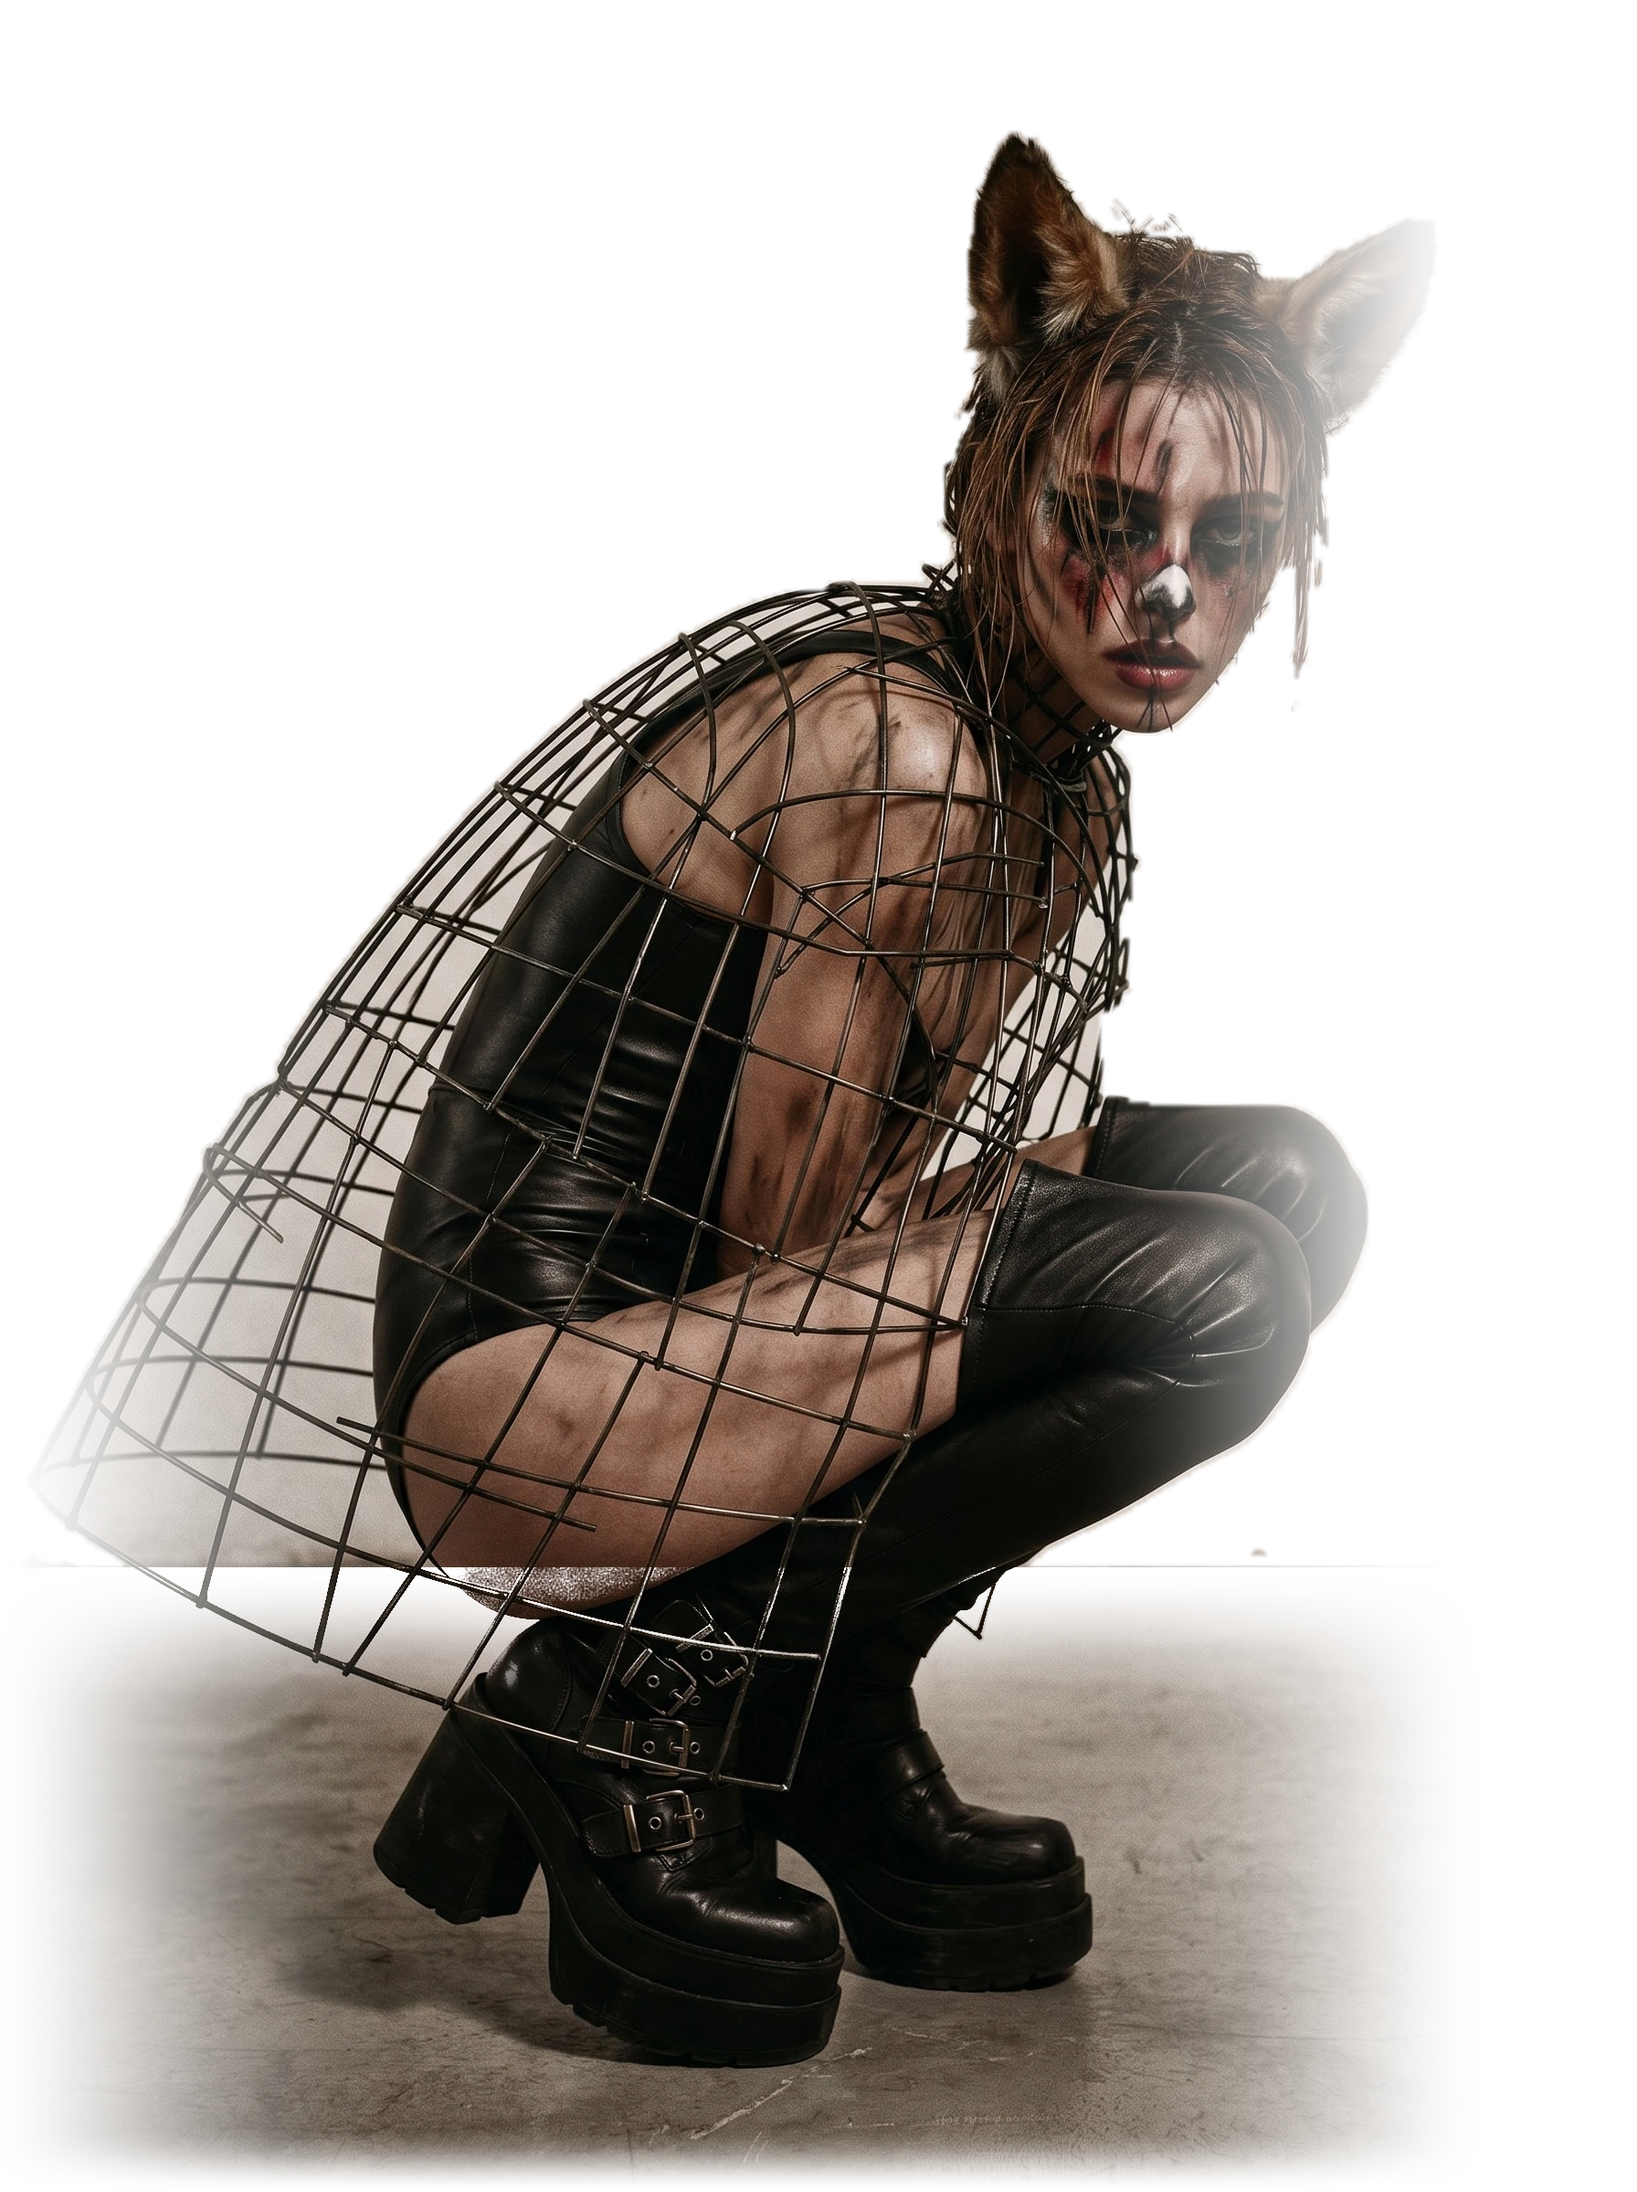
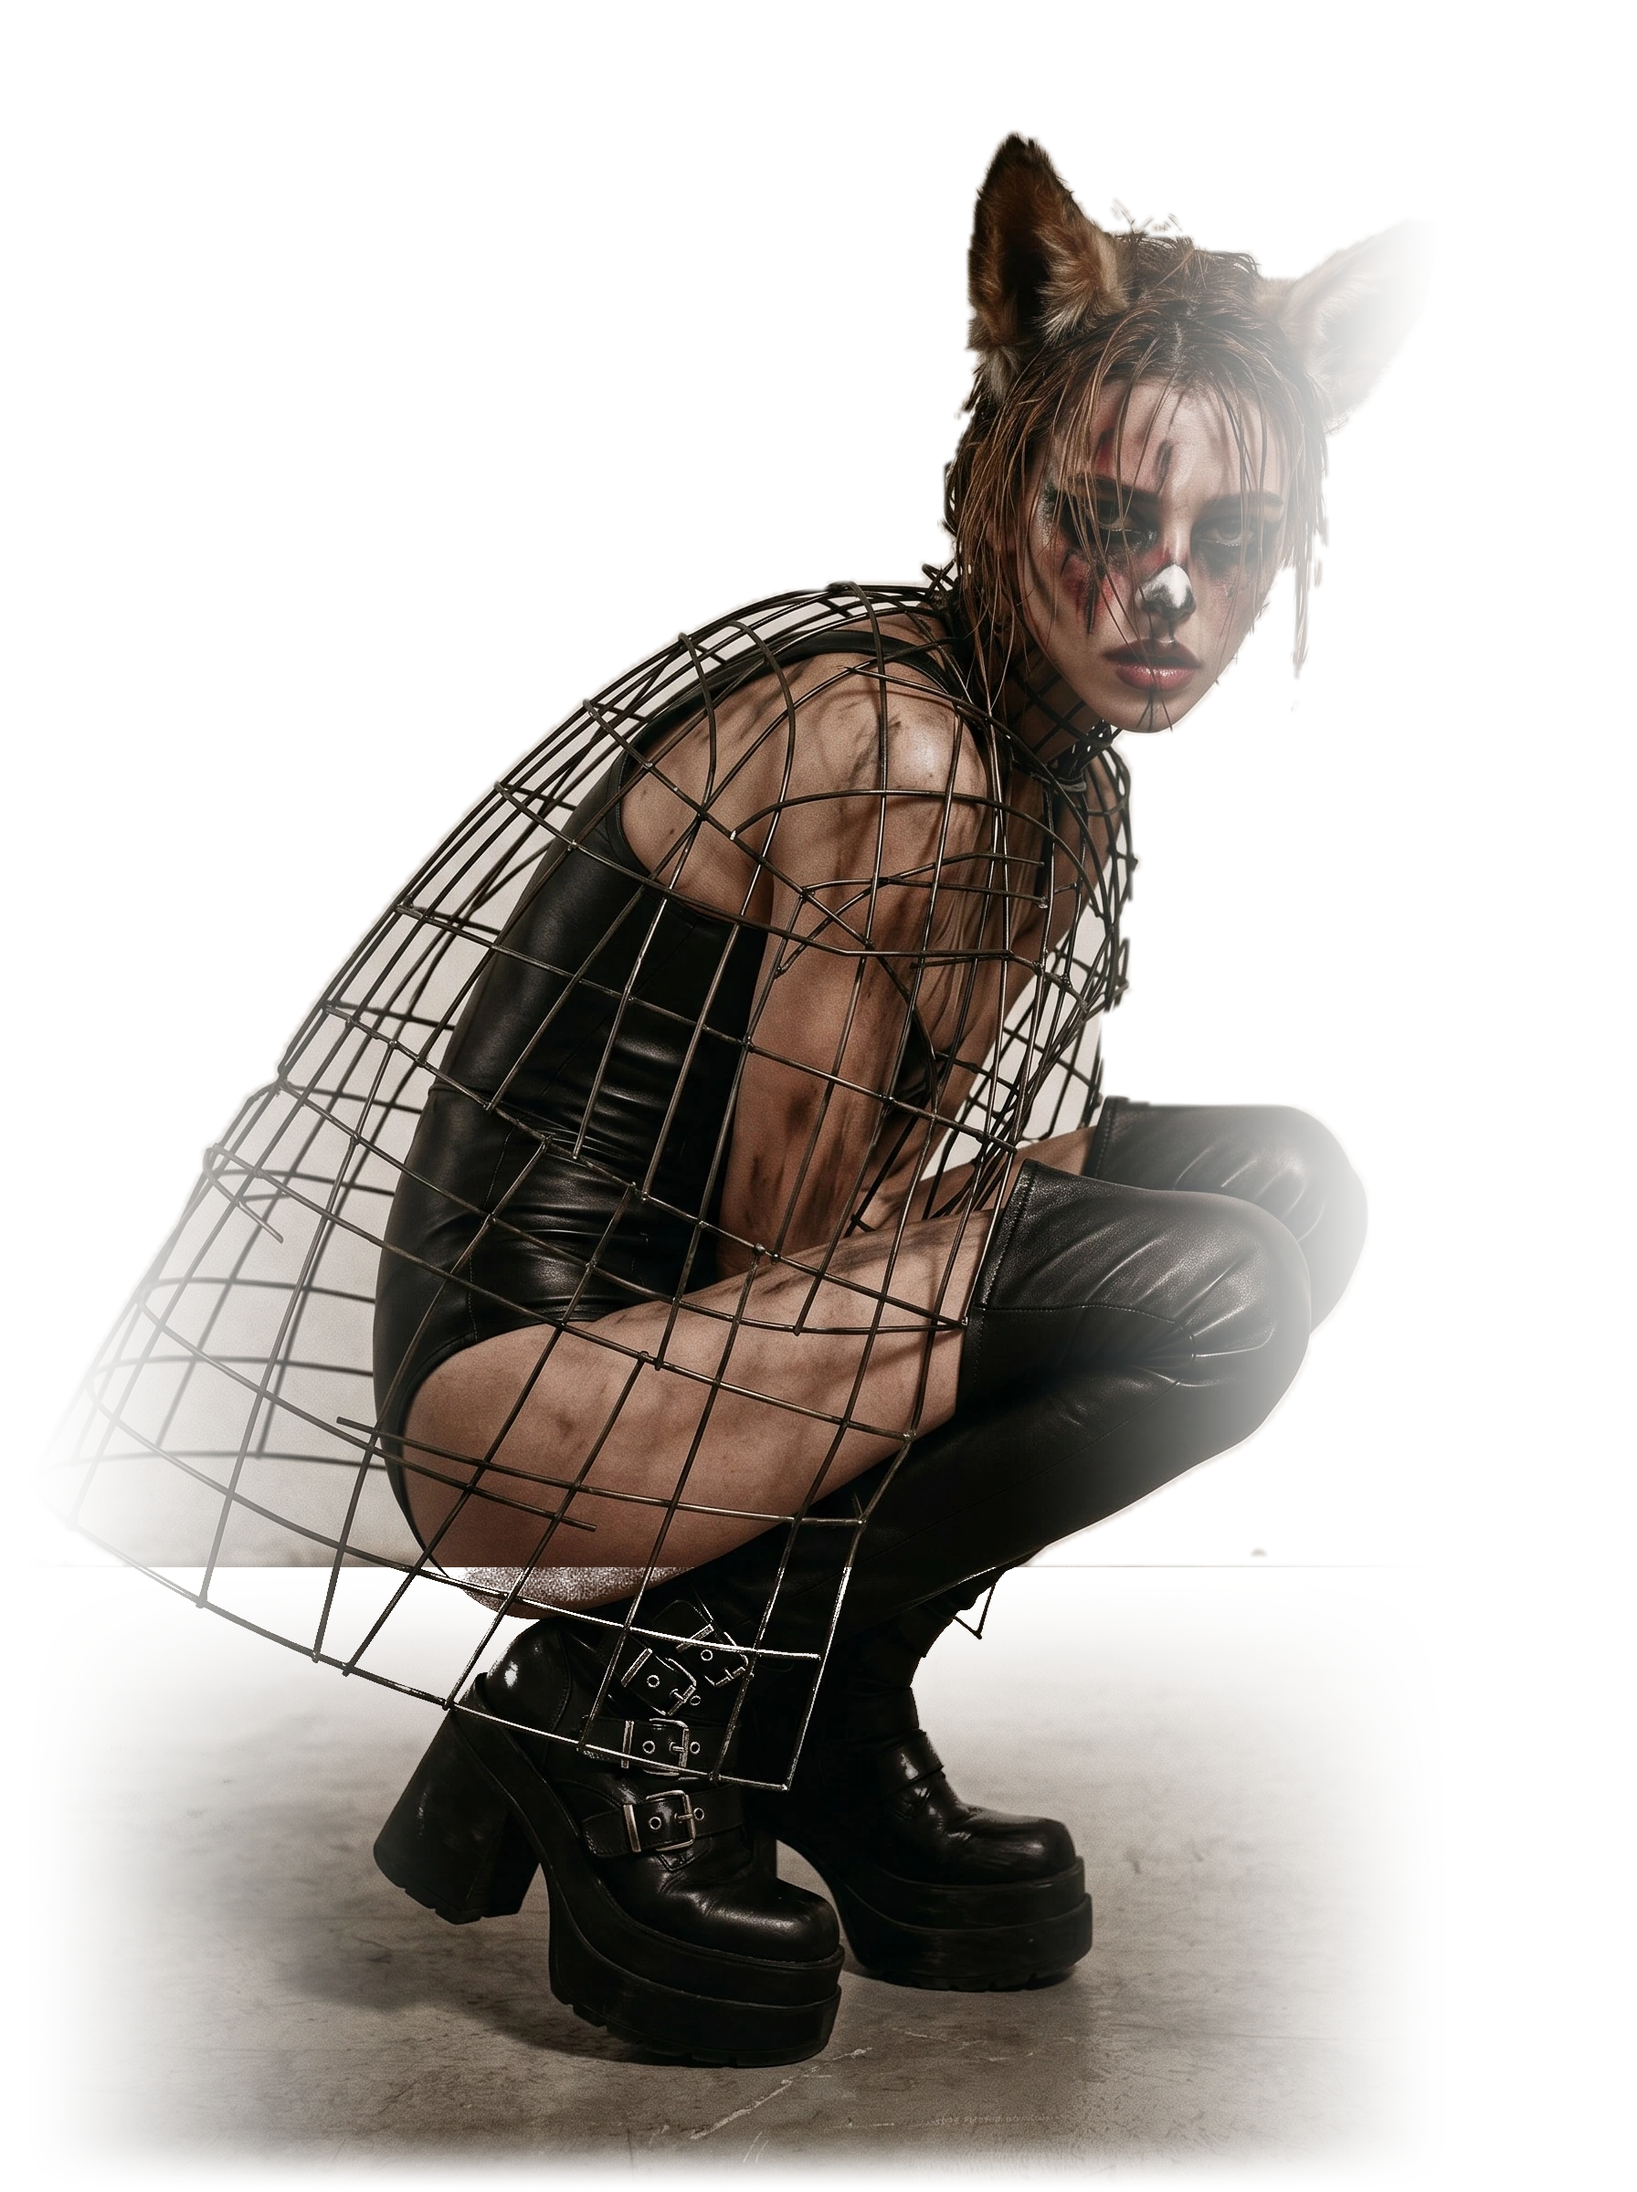
Name the responsible party, and correct what the briefing discloses
Privacy had the same gap the terms did: "we" throughout, with no party
attached to any of it. It now names one, in POPIA's own term — an
individual, not a registered company, consistent with the terms.

The briefing section was also inaccurate. It said a subscriber's address
is "shared with no one", but the subscribe form posts directly to
assets.mailerlite.com: MailerLite stores the list, and a subscriber's IP
reaches them at the moment they subscribe. That is the one form on the
site submitting off-domain — checked against the built output, which
carries exactly one form element and no others. A page whose stated
purpose is catching that gap in other people's writing cannot carry it.
The claim is now scoped to what is verifiable, and notes separately that
following a payment link to PayPal discloses an address to PayPal the way
visiting any site does.

Also widened the hero's fade bands. The seam was 0.075 of the height,
about 180px at full resolution, which survives on a desktop but compresses
to roughly 13px once the image is scaled into a phone viewport — tight
enough to read as an edge rather than a fade, which is what made the
shadow pool look like a pasted band there. At 0.16 it holds at both sizes.

Claude-Session: https://claude.ai/code/session_01JK2PB3QAa6TdnYw3VhGRKM

diff --git a/content/pages/privacy.md b/content/pages/privacy.md
@@ -4,11 +4,15 @@ summary: What this site collects, which is close to nothing, and how that sits w
 order: 5
 ---
 
-*Last updated: 31 August 2026*
+*Last updated: 10 September 2026*
 
 FERAL FEMME is a South African publication and processes personal information in line with the **Protection of Personal Information Act 4 of 2013 (POPIA)**. It has no premises: it is written from wherever the editor is, and the address below reaches her wherever that is.
 
 This site is built as static files. It has no database, no user accounts, and no server-side processing of visitor data.
+
+## Who is responsible
+
+FERAL FEMME is an independent publication run by one person. It is not a registered company, and it is not part of one. Under POPIA the **responsible party** is the individual who publishes it — "we", "us", and "our" on this page mean her — and she can be reached at [info@feral-femme.co](mailto:info@feral-femme.co).
 
 ## What we do not do
 
@@ -40,7 +44,9 @@ Our hosting provider records standard server logs — IP address, timestamp, req
 
 ## The briefing
 
-If you subscribe to The Research Briefing, we hold your email address for the sole purpose of sending it. It is used for nothing else, shared with no one, and deleted on unsubscribe. Every issue carries a one-click unsubscribe link.
+If you subscribe to The Research Briefing, we hold your email address for the sole purpose of sending it. It is used for nothing else, never sold, never disclosed to anyone else, and deleted on unsubscribe. Every issue carries a one-click unsubscribe link.
+
+The briefing is stored and sent through **MailerLite**, which acts on our instruction and holds your address under its own privacy policy. The subscribe form submits to MailerLite directly, which means your IP address reaches them at the moment you subscribe. It is the only form on this site that submits anywhere other than here, and it runs only if you choose to subscribe. (Following a payment link to PayPal discloses your address to PayPal in the same ordinary way that visiting any site does.)
 
 ## Donations
 
